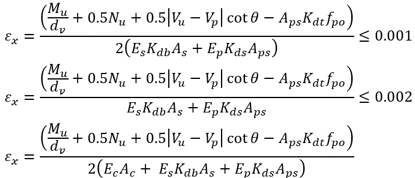
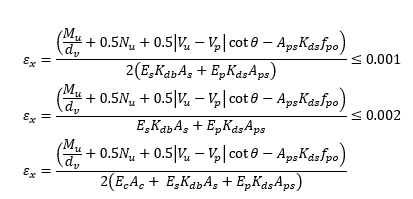
Updated documentation

diff --git a/Documentation/Common/TechnicalGuide/Shear_Capacity.md b/Documentation/Common/TechnicalGuide/Shear_Capacity.md
@@ -1,43 +1,42 @@
 Shear Capacity {#tg_shear_capacity}
 ======================================
 
-## General
-One of the features that distinguish the AASHTO LRFD Bridge Design Specifications from the Standard Specifications is the introduction of the Modified Compression Field Theory (MCFT) for the prediction of ultimate shear capacity. The shear capacity provisions of the LRFD specifications have changed many times over the years. Changes have been made to simplify the application of the MCFT method and provide alternatives that more closely resembled the Standard Specifications.
-
-WSDOT has issued three design memorandums relating to shear capacity analysis, establishing office policy that deviates slightly from what is described in the AASHTO LRFD. Listed below are the design memorandums. Each describes a method of computing shear capacity.
-
-[June 2001 Design Memorandum](http://www.wsdot.wa.gov/eesc/bridge/designmemos/07-2001.htm)<br>
-Simplified computation of longitudinal strain by letting 0.5cot(<span style="font-family:symbol">q</span>) = 1.0.
-
-[April 2007 Design Memorandum](http://www.wsdot.wa.gov/eesc/bridge/designmemos/06-2007.htm)<br>
-Directs engineers to follow the June 2001 design memorandum and not apply the provisions of LRFD 5.8.3.4.3 (Vci - Vcw method)
-
-[August 2007 Design Memorandum](http://www.wsdot.wa.gov/eesc/bridge/designmemos/12-2007.htm)<br>
-Supercedes June 2001 design memorandum and directs engineers to use, what will be known as the "General Procedure" when published in the 2008 interim provisions.
-
-### Adjustment Factors for Net Longitunal Tensile Strain
+## Adjustment Factors for Net Longitunal Tensile Strain
 
 
-The Shear Capacity Details Report includes the following revised form of LRFD Equation 5.7.3.4.2-4:
+LRFD 5.7.3.4.2 provides guidance for estimating the beta and theta parameters for shear capacity. The net longitudinal strain is a key parameter and it is computed by LRFD Equation 5.7.3.4.2-4. Within this software, they equation has been modified as described herein.
+
+The net longitudinal strain is computed as:
 
 ![](ex_2005.png)
 
-where the following adjustment factors for As, Aps, and fpo have been added:
+where the following adjustment factors:
 
-Kdb = factor accounting for lack of full bar development.
+K<sub>db</sub> = factor accounting for lack of full bar development.
 
-Kds = factor accounting for lack of full strand development.
+K<sub>ds</sub> = factor accounting for lack of full strand development.
 
-Previously, the provided As, Aps, and fpo were scaled by the percentage of the corresponding 
-bar/strand development. In the revised equation, the true values of As are provided 
-and multiplied by Kdb, and Aps and fpo are multiplied by Kds. Values of Kdb and Kds are determined by linearly interpolating
-the percentage from zero at the location where the bond between the bars or strands and concrete commences to 
-the full development length of the bars (Kdb) or strands (Kds).
+Previously, the provided As and Aps were scaled by factors accounting for lack of full development making it difficult to verify their values. In the revised equation, the true values of As and Aps are provided and multiplied by K<sub>db</sub> and K<sub>ds</sub>, respectively. 
 
+K<sub>db</sub> is determined by linearly interpolating the distance from the end of the reinforcement to the section underconsider along the development length computer per LRFD 5.10.8.
 
+K<sub>ds</sub> is determined by interpolating the distance from the end of the strand to the section under consideration along the development length per LRFD 5.9.4.3.2-1 and Figure C5.9.4.3.2-1
 
+LRFD 5.7.3.4.2 states that "Within the transfer length, f<sub>po</sub> shall be increased linearly from zero at the location where the bond between the strands and concrete commences to its full value at the end of the transfer length". Additionally, LRFD 5.7.3.4.2 states that "In calculating As and Aps the area of bars or tendons terminated less than their development length from the section under consideration should be reduced in proportion to their lack of full development." Applying both reductions in the numerator of Equation 5.7.3.4.2-4 amounts reducing A<sub>ps</sub>f<sub>po</sub> twice.
 
+Equation 5.7.3.4.2-4 is essentially a statement of force equilibrium of the internal force provided by the section reinforcement and the external force from the applied loads. The equation, rearranged into the form of equal forces is
 
+![](Forces.png)
+
+Applying the K<sub>db</sub> and K<sub>ds</sub> reductions for a lack of full development leads to
+
+![](Reduced_Forces.png)
+
+Solving for the net longitudinal strain
+
+![](Corrected_Net_Longitudinal_Strain.png)
+
+From the corrected net longitudinal strain equation, it is clear that f<sub>po</sub> should not be reduced in perportion to its transfer length. For this reason, f<sub>po</sub> is not reduced in these calculations.
 
 ## Load Rating
 One of the unique features of the MCFT is that ultimate shear capacity is a function of loading. Even though load ratings are computed for individual vehicles the shear capacity is computed based on the live load envelope of which the vehicle belongs. For example, the shear rating for the legal load rating for routine commercial traffic may be controlled by the Type 3-3 vehicle, the shear capacity will be based on the envelope of all the AASHTO Legal Load vehicles. In most all cases, the vehicle causing the maximum shear in the live load envelope will be the same vehicle governing the load rating.